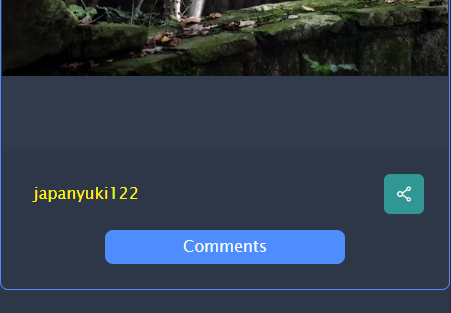
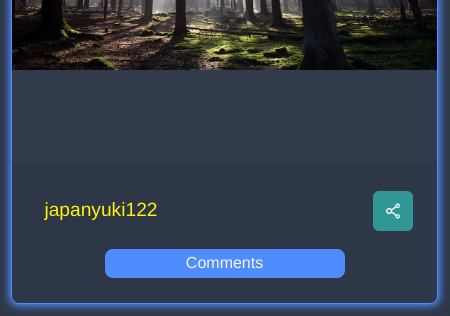
Update: photos for / subpage and link in /faq

diff --git a/pages/groups/[name].tsx b/pages/groups/[name].tsx
@@ -36,14 +36,7 @@ import {
   useDisclosure,
 } from '@chakra-ui/react';
 
-import {
-  deleteMembers,
-  deleteModerators,
-  groups,
-  members,
-  moderators,
-  user,
-} from 'references/referencesFirebase';
+import { deleteMembers, deleteModerators, groups, members, moderators, user } from 'references/referencesFirebase';
 
 import { EventType } from 'types/global.types';
 
@@ -162,9 +155,7 @@ export default function Groups() {
       if (docSnap.exists()) {
         setAdmin(docSnap.data().admin);
         setDescription(docSnap.data().description);
-        setLogo(
-          !!docSnap.data().logo ? docSnap.data().logo : `${process.env.NEXT_PUBLIC_PAGE}/group.svg`,
-        );
+        setLogo(!!docSnap.data().logo ? docSnap.data().logo : `${process.env.NEXT_PUBLIC_PAGE}/group.svg`);
       }
     } catch (e) {
       console.error(e);
@@ -277,9 +268,7 @@ export default function Groups() {
                 borderColor={!newLogo && required ? '#bd0000' : '#4F8DFF'}
               />
 
-              <p style={{ color: '#bd0000' }}>
-                {!newLogo && required && data?.NavForm?.validateRequired}
-              </p>
+              <p style={{ color: '#bd0000' }}>{!newLogo && required && data?.NavForm?.validateRequired}</p>
               {logoUrl && (
                 <img
                   src={logoUrl}
@@ -325,12 +314,10 @@ export default function Groups() {
         <h2 className={styles.nameGroup}>{name}</h2>
       </article>
 
-      {admin !== currentUser && (
+      {admin === currentUser && (
         <div className={styles.buttons}>
           <Button
-            leftIcon={
-              join ? <CheckIcon boxSize={checkIcon} /> : <SmallAddIcon boxSize={smallIcon} />
-            }
+            leftIcon={join ? <CheckIcon boxSize={checkIcon} /> : <SmallAddIcon boxSize={smallIcon} />}
             style={join ? addingToGroupOutline : addingToGroup}
             colorScheme="blue"
             onClick={joinToGroup}
@@ -342,29 +329,17 @@ export default function Groups() {
           {join && (
             <div>
               <Button
-                leftIcon={
-                  favorite ? (
-                    <CheckIcon boxSize={checkIcon} />
-                  ) : (
-                    <SmallAddIcon boxSize={smallIcon} />
-                  )
-                }
+                leftIcon={favorite ? <CheckIcon boxSize={checkIcon} /> : <SmallAddIcon boxSize={smallIcon} />}
                 style={favorite ? addingToGroupOutline : addingToGroup}
                 colorScheme="blue"
                 disabled={!favorite && favoriteLength === 5}
                 onClick={addToFavorites}
                 variant={favorite ? 'solid' : 'outline'}
                 className={`${styles.button} ${styles.favoriteButton}`}>
-                {favorite
-                  ? data?.Groups?.favorite?.addedToFav
-                  : data?.Groups?.favorite?.addToFavorite}
+                {favorite ? data?.Groups?.favorite?.addedToFav : data?.Groups?.favorite?.addToFavorite}
               </Button>
               {!favorite && (
-                <p>
-                  {favoriteLength !== 5
-                    ? data?.Groups?.favorite?.maxFav
-                    : data?.Groups?.favorite?.maximumAchieved}
-                </p>
+                <p>{favoriteLength !== 5 ? data?.Groups?.favorite?.maxFav : data?.Groups?.favorite?.maximumAchieved}</p>
               )}
             </div>
           )}

diff --git a/pages/faq/index.tsx b/pages/faq/index.tsx
@@ -11,14 +11,13 @@ import { FaqItems } from 'components/atoms/FaqItems/FaqItems';
 import { Footer } from 'components/molecules/Footer/Footer';
 
 import styles from './index.module.scss';
-import { ExternalLinkIcon } from '@chakra-ui/icons';
 
 export default function Faq() {
   const { isUser } = useContext(StatusLoginContext);
   const { asPath } = useRouter();
   const data = useHookSWR();
 
-  const externalLink = '#4F8DFF !important';
+  const link = '#4F8DFF !important';
 
   return (
     <div className={styles.site}>
@@ -40,9 +39,8 @@ export default function Faq() {
             textBody={
               <div>
                 {data?.FAQ?.body2}
-                <Link href="/plans" color={externalLink} isExternal>
+                <Link href="/plans" color={link}>
                   {data?.FAQ?.body2Link}
-                  <ExternalLinkIcon mx="2px" color={externalLink} />
                 </Link>
                 {data?.FAQ?.body2dot}
               </div>

diff --git a/pages/index.tsx b/pages/index.tsx
@@ -22,7 +22,7 @@ import artist from 'public/artist.jpg';
 import searchingService from 'public/searching.jpg';
 import upload from 'public/upload.png';
 import authorButton from 'public/authorButton.png';
-import top from 'public/top.png';
+import top from 'public/top.jpg';
 import minimalism from 'public/minimalism.png';
 import likes from 'public/likes.png';
 
